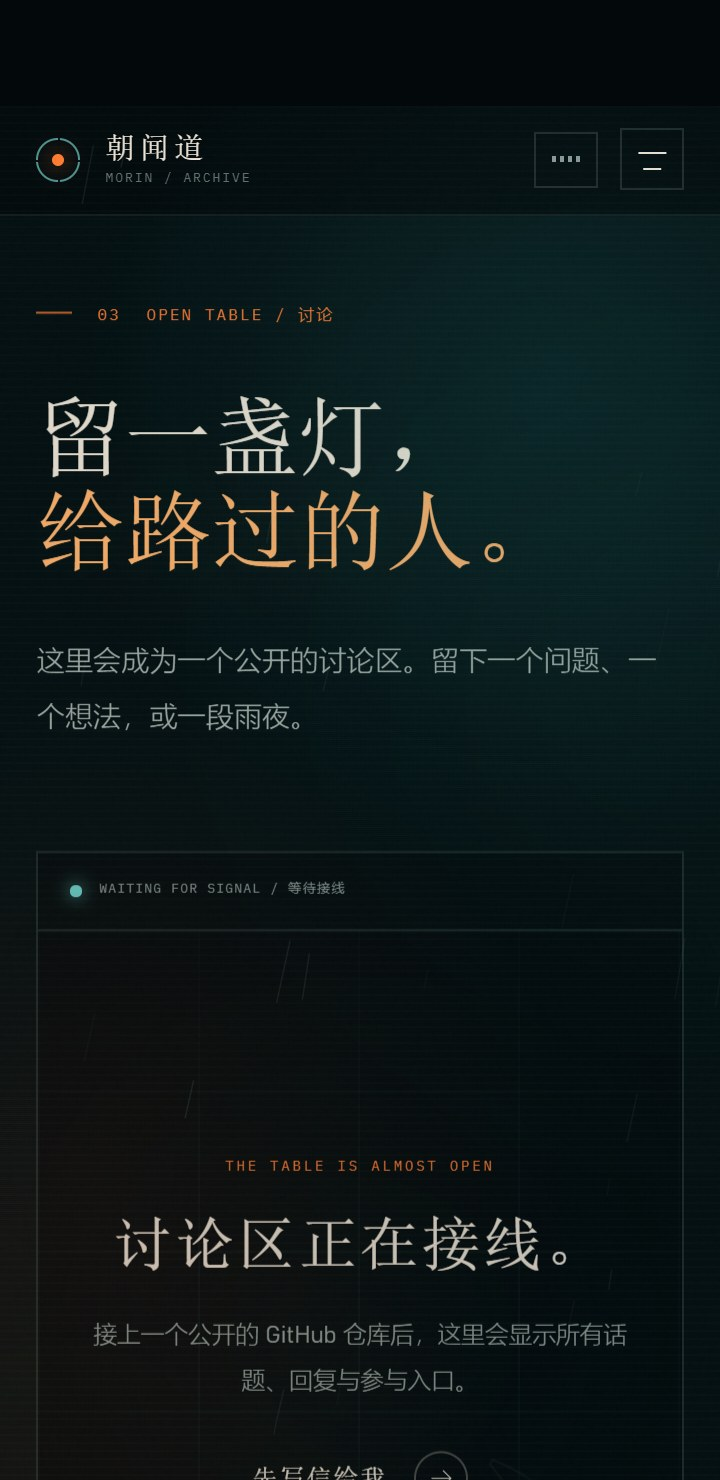
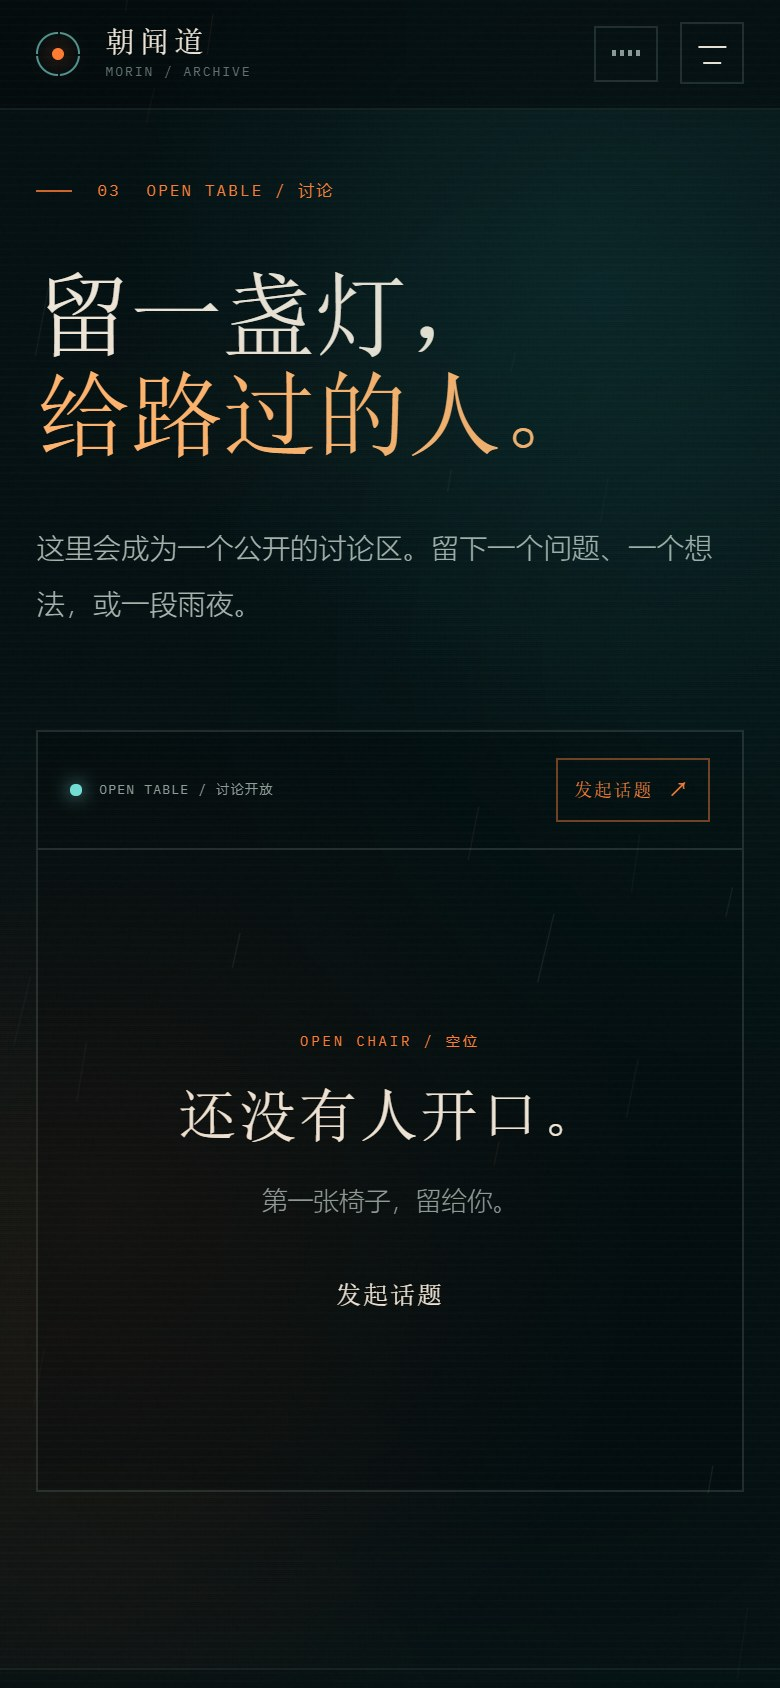
Connect GitHub discussion and update docs

diff --git a/app.js b/app.js
@@ -1211,10 +1211,8 @@
     container.hidden = false;
     setText("discussion-status", "OPEN TABLE / 讨论开放");
 
-    const newParams = new URLSearchParams();
-    if (github.label) newParams.set("labels", github.label);
     if (newTopic) {
-      newTopic.href = `${repoUrl}/issues/new${newParams.toString() ? `?${newParams}` : ""}`;
+      newTopic.href = buildNewIssueUrl(repoUrl, github);
       newTopic.hidden = false;
     }
 
@@ -1223,6 +1221,12 @@
     loading.textContent = "正在读取讨论…";
     container.replaceChildren(loading);
     loadDiscussionThreads(container, github, repoUrl);
+  }
+
+  function buildNewIssueUrl(repoUrl, github) {
+    const params = new URLSearchParams();
+    if (github && github.label) params.set("labels", github.label);
+    return `${repoUrl}/issues/new${params.toString() ? `?${params}` : ""}`;
   }
 
   function formatDiscussionDate(value) {
@@ -1305,7 +1309,7 @@
         copy.textContent = cfg.discussion.emptyText || "第一张椅子，留给你。";
         const cta = document.createElement("a");
         cta.className = "text-link";
-        cta.href = `${repoUrl}/issues/new`;
+        cta.href = buildNewIssueUrl(repoUrl, github);
         cta.target = "_blank";
         cta.rel = "noopener noreferrer";
         cta.textContent = cfg.discussion.newTopic || "发起话题";

diff --git a/site.config.js b/site.config.js
@@ -191,8 +191,7 @@ window.SITE_CONFIG = {
     emptyTitle: "还没有人开口。",
     emptyText: "第一张椅子，留给你。",
     allTopics: "在 GitHub 查看全部",
-    // 建一个公开仓库并开启 Issues，把 owner / repo 填进来即可变成真论坛。
-    // 建议单独建一个只用于讨论的仓库，例如 chaowendao-forum。
+    // 已接入 ink-neu/design 的 Issues，使用 discussion 标签筛选话题。
     github: {
       owner: "ink-neu",
       repo: "design",
@@ -244,6 +243,7 @@ window.SITE_CONFIG = {
     backToTop: "回到顶部"
   }
 };
+
 
 
 
